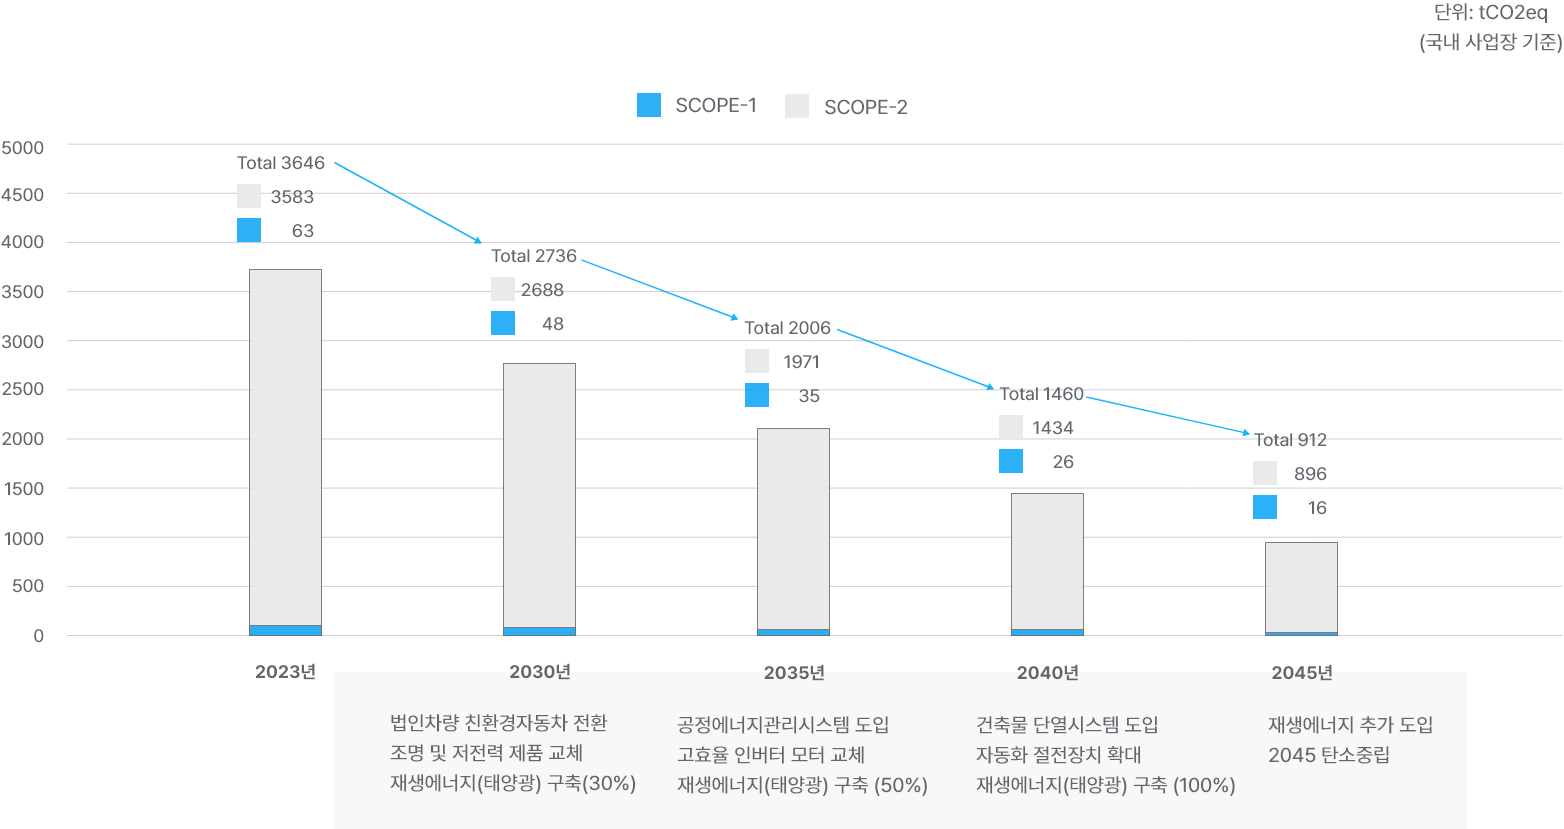
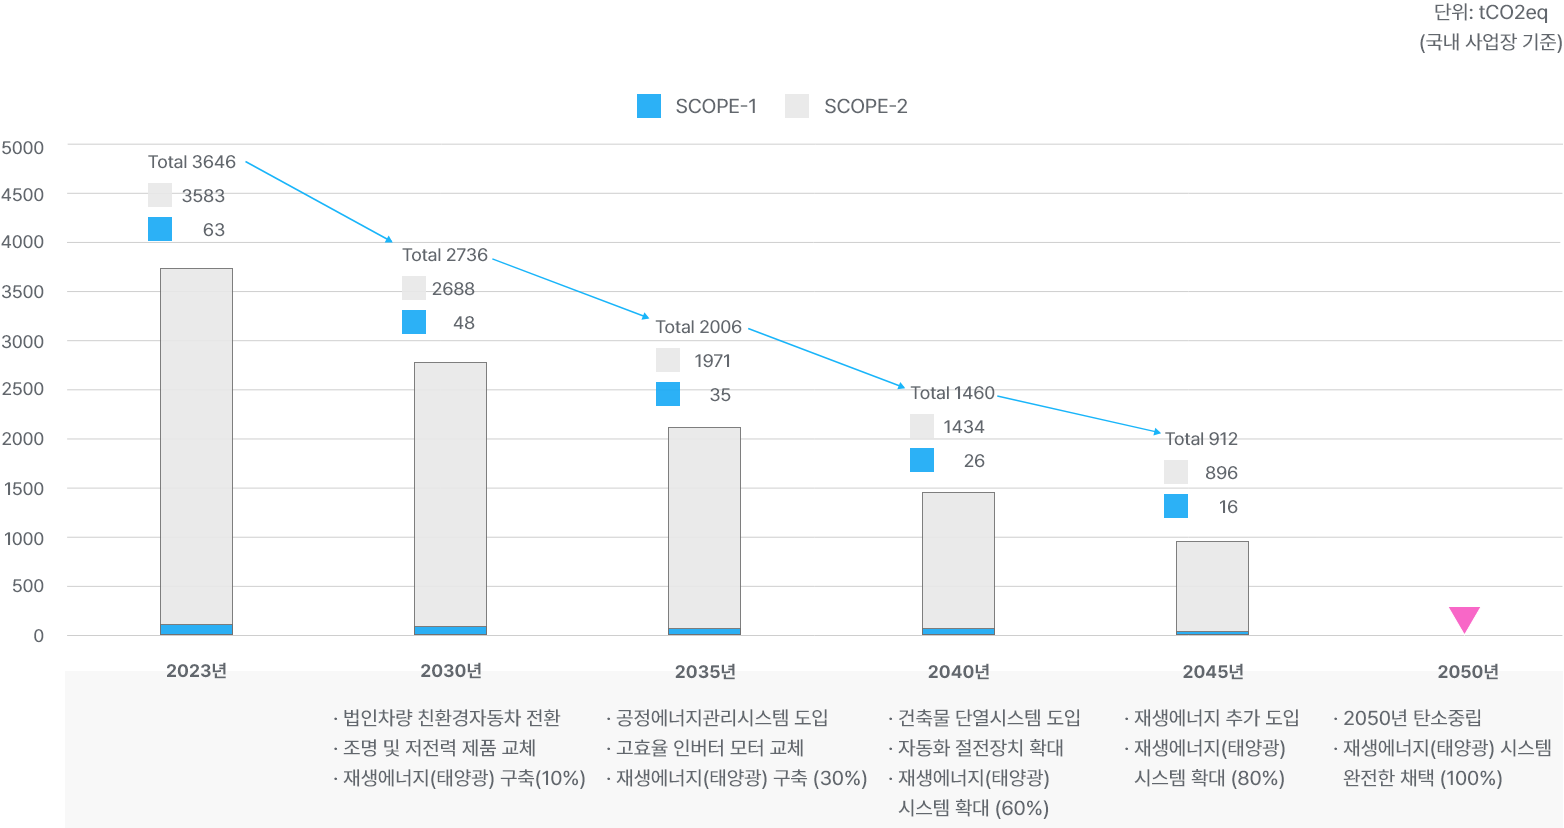
고객 요청사항 반영.

diff --git a/src/components/pages/sustainability/esg/ClimateChange.tsx b/src/components/pages/sustainability/esg/ClimateChange.tsx
@@ -184,6 +184,53 @@ export default function ClimateChange({ language }: Props) {
                     <p>{language?.esg_text_02_02}</p>
                     <p>{language?.esg_text_02_02_01}</p>
                     <p><Image src={`/images/sub/sustainability/esg/esg-02-img-01-${language?.language}.png`} alt="" width={1562} height={917}/></p>
+
+
+                    <div className="carbon-table-wrap">
+                    <table className="carbon-table">
+                        <thead>
+                        <tr>
+                            <th>Year</th>
+                            <th>2024</th>
+                            <th>2030</th>
+                            <th>2035</th>
+                            <th>2040</th>
+                            <th>2045</th>
+                            <th>2050</th>
+                        </tr>
+                        </thead>
+                        <tbody>
+                        <tr>
+                            <td>SCOPE-1</td>
+                            <td>78</td>
+                            <td>70</td>
+                            <td>55</td>
+                            <td>32</td>
+                            <td>16</td>
+                            <td>0</td>
+                        </tr>
+                        <tr>
+                            <td>SCOPE-2</td>
+                            <td>3,806</td>
+                            <td>3,424</td>
+                            <td>2,664</td>
+                            <td>1,522</td>
+                            <td>761</td>
+                            <td>0</td>
+                        </tr>
+                        <tr className="total-row">
+                            <td>TOTAL</td>
+                            <td>3,884</td>
+                            <td>3,494</td>
+                            <td>2,719</td>
+                            <td>1,554</td>
+                            <td>777</td>
+                            <td>0</td>
+                        </tr>
+                        </tbody>
+                    </table>
+                    </div>
+
                 </section>
                 <section className="esg-section-02">
                     <Image src="/images/sub/sustainability/esg/esg-02-img-03.png" alt="" width={1600} height={2133}/>

diff --git a/src/app/assets/sustainability/esg.scss b/src/app/assets/sustainability/esg.scss
@@ -629,6 +629,36 @@
           height: auto;
         }
       }
+      .carbon-table-wrap {
+        overflow-x: auto;
+        margin-top: 2rem;
+        }
+
+        .carbon-table {
+          width: 100%;
+          border-collapse: collapse;
+          text-align: center;
+          font-size: 18px;
+          color: #222;
+        }
+
+        .carbon-table th,
+        .carbon-table td {
+          border: 1px solid #999;
+          padding: 12px;
+          min-width: 80px;
+        }
+
+        .carbon-table thead th {
+          background-color: #f7f7f7;
+          font-weight: bold;
+        }
+
+        .carbon-table .total-row td {
+          font-weight: bold;
+          background-color: #f0f0f0;
+        }
+
     }
 
     .esg-section-02 {
